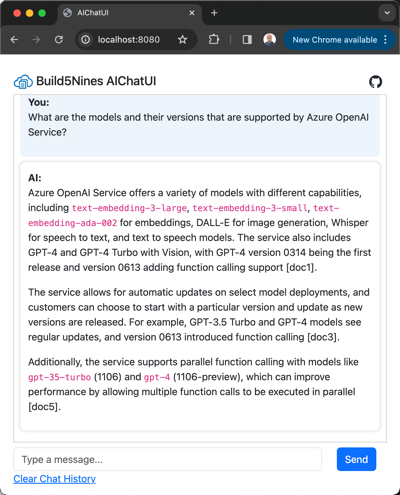
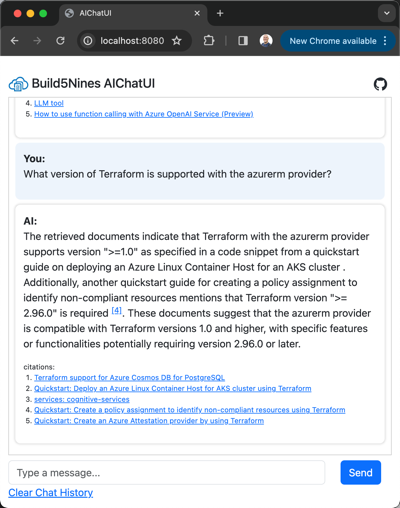
Add citations rendering

diff --git a/app/static/index.html b/app/static/index.html
@@ -22,6 +22,13 @@
         .message-ai {
             box-shadow: 0 0 0.2em 0.1em rgba(150, 150, 150, 0.3);
         }
+
+        .message-citations {
+            font-size: 0.7em;
+        }
+        .message-citations ol {
+            padding-left: 1.5em;
+        }
     </style>  
 </head>  
 <body>
@@ -88,16 +95,52 @@
                 
             });
   
-            function addMessage(sender, message) {  
+            function addMessage(sender, message, raw) {  
                 const messageElement = $('<div class="message"></div>');
                 const formattedMessage = formatMessageForDisplay(message);
                 
                 messageElement.addClass(`message-${sender.toLowerCase()}`);
                 messageElement.append(`<div class="message-role">${sender}</div>`);
-                messageElement.append(`<div class="message-content">${formattedMessage}</div>`);
 
-                messageList.append(messageElement);  
+                var messageContentElement = $(`<div class="message-content">${formattedMessage}</div>`);
+                messageElement.append(messageContentElement);
+
+                messageList.append(messageElement);
+
+                // render additional data from chat completion
+                if (raw) {
+                    renderCitations(raw, messageContentElement);
+                }
+
                 messageList.scrollTop(messageList[0].scrollHeight);  
+            }
+
+            function renderCitations(raw, messageContentElement) {
+                if (raw.choices && raw.choices.length > 0 && raw.choices[0].message && raw.choices[0].message.context && raw.choices[0].message.context.messages && raw.choices[0].message.context.messages.length > 0 && raw.choices[0].message.context.messages[0].role == 'tool') {
+                    var citations = JSON.parse(raw.choices[0].message.context.messages[0].content).citations;
+
+                    if (citations) {
+                        var citationsElement = $('<div/>').addClass('message-citations'),
+                            listElement = $('<ol></ol>');
+                        citationsElement.append('<div>citations:</div>');
+                        citationsElement.append(listElement);
+
+                        citations.forEach((item, index) => {
+                            listElement.append(
+                                $('<li></li>').append(
+                                    $("<a/>").attr('href', item.url).text(item.title).attr('target', '_blank')
+                                    )
+                                );
+
+                            var messageContentHtml = messageContentElement.html();
+                            
+                            messageContentHtml = messageContentHtml.replaceAll(`[doc${index + 1}]`, `<sup><a href="${item.url}" target="_blank">[${index + 1}]</a></sup>`);
+                            messageContentElement.html(messageContentHtml);
+                        });
+
+                        messageContentElement.append(citationsElement);
+                    }
+                }
             }
 
             function formatMessageForDisplay(message) {
@@ -121,7 +164,7 @@
                     }
                     throw new Error(`${response.status}: ${response.statusText}`);
                 }).then(res => {
-                    addMessage('AI', res.choices[0].message.content); 
+                    addMessage('AI', res.choices[0].message.content, res); 
                 }).catch(err => {
                     console.error(err);
                     addMessage('Error', 'Error occurred while sending message.');
@@ -150,7 +193,8 @@
                             if (role == 'assistant') role = 'AI';
                             addMessage(
                                 role,
-                                item.content
+                                item.content,
+                                item.raw
                             );
                         }
                     });
